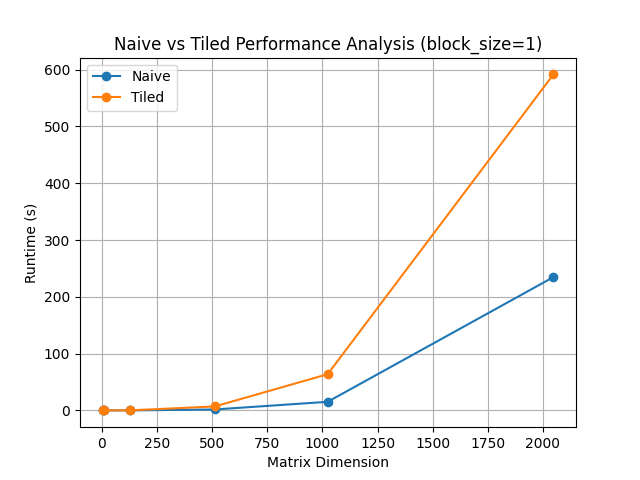
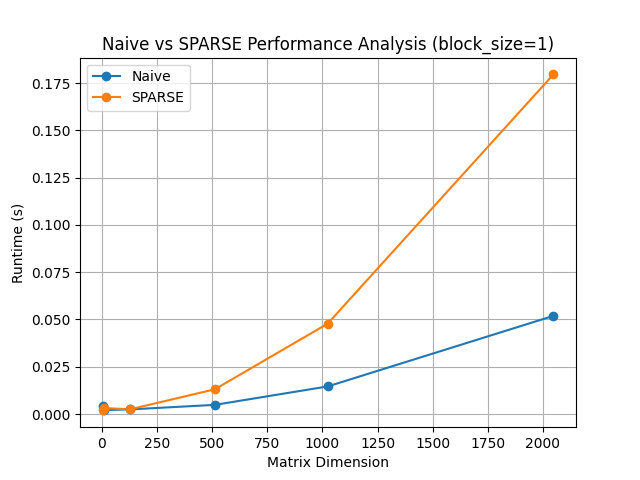
add plots

diff --git a/lab-3/lab3/plot.py b/lab-3/lab3/plot.py
@@ -75,25 +75,23 @@ def compare_diff_block_sizes_with_naive_baseline():
 def compare_naive_vs_tiled(block_size=128):
     runtimes_naive = []
     runtimes_tiled = []
-    dims = [3, 10, 128, 512, 1024, 2048]
-    iterations = 3
+    dims = [3, 10, 128, 512 ]
     shell_cmd_prefix = ["./main.out"]
-    shell_cmd_postfix = [str(block_size), str(iterations)]
 
     for dim in dims:
-        cmd = " ".join(shell_cmd_prefix + ["NAIVE", str(dim)] + shell_cmd_postfix)
+        cmd = " ".join(shell_cmd_prefix + ["NAIVE", str(dim), "1", "10"])
         runtimes_naive.append(benchmark(run_shell_cmd, [cmd]))
-        cmd = " ".join(shell_cmd_prefix + ["SPARSE", str(dim)] + shell_cmd_postfix)
+        cmd = " ".join(shell_cmd_prefix + ["SPARSE", str(dim), "1", "1"])
         runtimes_tiled.append(benchmark(run_shell_cmd, [cmd]))
 
     plt.plot(dims, runtimes_naive, label="Naive", marker="o")
     plt.plot(dims, runtimes_tiled, label="SPARSE", marker="o")
     plt.xlabel("Matrix Dimension")
     plt.ylabel("Runtime (s)")
-    plt.title(f"Naive vs SPARSE Performance Analysis (block_size={block_size})")
+    plt.title(f"Naive vs Sparse Performance Analysis")
     plt.legend()
     plt.grid(True)
-    plt.savefig(f"{PLOTS_DIR}/naive_vs_tiled_{block_size=}.png")
+    plt.savefig(f"{PLOTS_DIR}/naive_vs_tiled_2.png")
     plt.show()
     plt.clf()
 
@@ -103,23 +101,22 @@ def plot_top_down():
 
     # Data for "256x256" (updated)
     # slots_128x128 = [9.7, 1.3, 1.6, 87.4]
-    slots_128x128 = [15.5, 0.5, 0.5, 83.5]
+    slots_128x128 = [3.4, 0.2, 28.5, 67.8]
 
     # Data for "512x512" (updated)
     # slots_256x256 = [9.2, 1.0, 0.6, 89.2]
-    slots_256x256 = [15.1, 0.3, 0.7, 83.9]
+    slots_256x256 = [32.4, 2.7, 18.7, 46.2]
 
     # Data for "1024x1024" (updated)
     # slots_1024x1024 = [8.9, 1.0, 0.9, 89.2]
-    slots_1024x1024 = [14.3, 0.3, 2.3, 83.1]
+    # slots_1024x1024 = [14.3, 0.3, 2.3, 83.1]
     
     percent_slots = [
         slots_256x256,
         slots_128x128,
-        slots_1024x1024,
     ]
 
-    bubbles = ["10x10", "512x512", "1024x1024"]
+    bubbles = ["Matmul", "Sparse Matmul" ]
 
     colors = ["#419D78", "#3C91E6", "#904E55", "#6C596E"]
     _,ax = plt.subplots()
@@ -134,21 +131,23 @@ def plot_top_down():
     ax.set_xlabel("%")
     block_size = 1
     suffix = f"{block_size=}"
-    ax.set_title(f"Pipeline Bottleneck Breakdown: Matmul ({suffix})")
+    ax.set_title(f"Pipeline Bottleneck Breakdown")
     ax.legend(categories, loc="upper right")
 
+    print(f"{PLOTS_DIR}/pipeline_bottleneck_breakdown{suffix}.png")
     plt.savefig(f"{PLOTS_DIR}/pipeline_bottleneck_breakdown{suffix}.png")
     plt.show()
 
 
 if __name__ == "__main__":
-    compare_diff_block_sizes()
-    compare_diff_block_sizes_with_naive_baseline()
+    # compare_diff_block_sizes()
+    # compare_diff_block_sizes_with_naive_baseline()
 
-    block_sizes = [1,80, 128]
-    block_sizes.extend([256, 512, 1024])
-    block_sizes.extend([140, 160, 180, 200,220, 240, 260])
-    for block_sz in block_sizes:
-      compare_naive_vs_tiled(block_sz)
+    # block_sizes = [1,80, 128]
+    # block_sizes.extend([256, 512, 1024])
+    # block_sizes.extend([140, 160, 180, 200,220, 240, 260])
+    # for block_sz in block_sizes:
+    # compare_naive_vs_tiled(1)
+    plot_top_down()
     # fire.Fire()
     print("Finished")

diff --git a/lab-3/lab3/main.c b/lab-3/lab3/main.c
@@ -11,7 +11,7 @@ enum Impl {
 
 void run_matmul(enum Impl impl, int dims, int block_size, int iterations) {
     float **A = init_2d_array(dims, dims);
-    float **B = init_2d_id_array(dims, dims);
+    float **B = init_2d_array(dims, dims);
     printf("Params: dims: %d, block_size: %d, iterations: %d\n", dims, block_size, iterations);
 
     switch(impl){

diff --git a/lab-3/lab3/kernel/matrix_ops.c b/lab-3/lab3/kernel/matrix_ops.c
@@ -170,7 +170,7 @@ float **matmul_sparse(float **A, float **B, int A_rows, int A_cols, int B_rows, 
         }
     }
 
-    for (int iterations; iterations < 20; iterations++) {
+    for (int iterations; iterations < 10; iterations++) {
         for (int a_row = 0; a_row < A_rows + 1; a_row++)
         {
             int a_col_idx = ARowIndexArray[a_row];

diff --git a/lab-3/lab3/utils/data_utils.c b/lab-3/lab3/utils/data_utils.c
@@ -19,7 +19,6 @@ float **init_2d_array(int rows, int cols)
         for (int j = 0; j < cols; j++)
         {
             array[i][j] = (i+j)*((i+j)%2);
-            printf("%f ",  array[i][j]);
         }
         printf("\n");
     }
